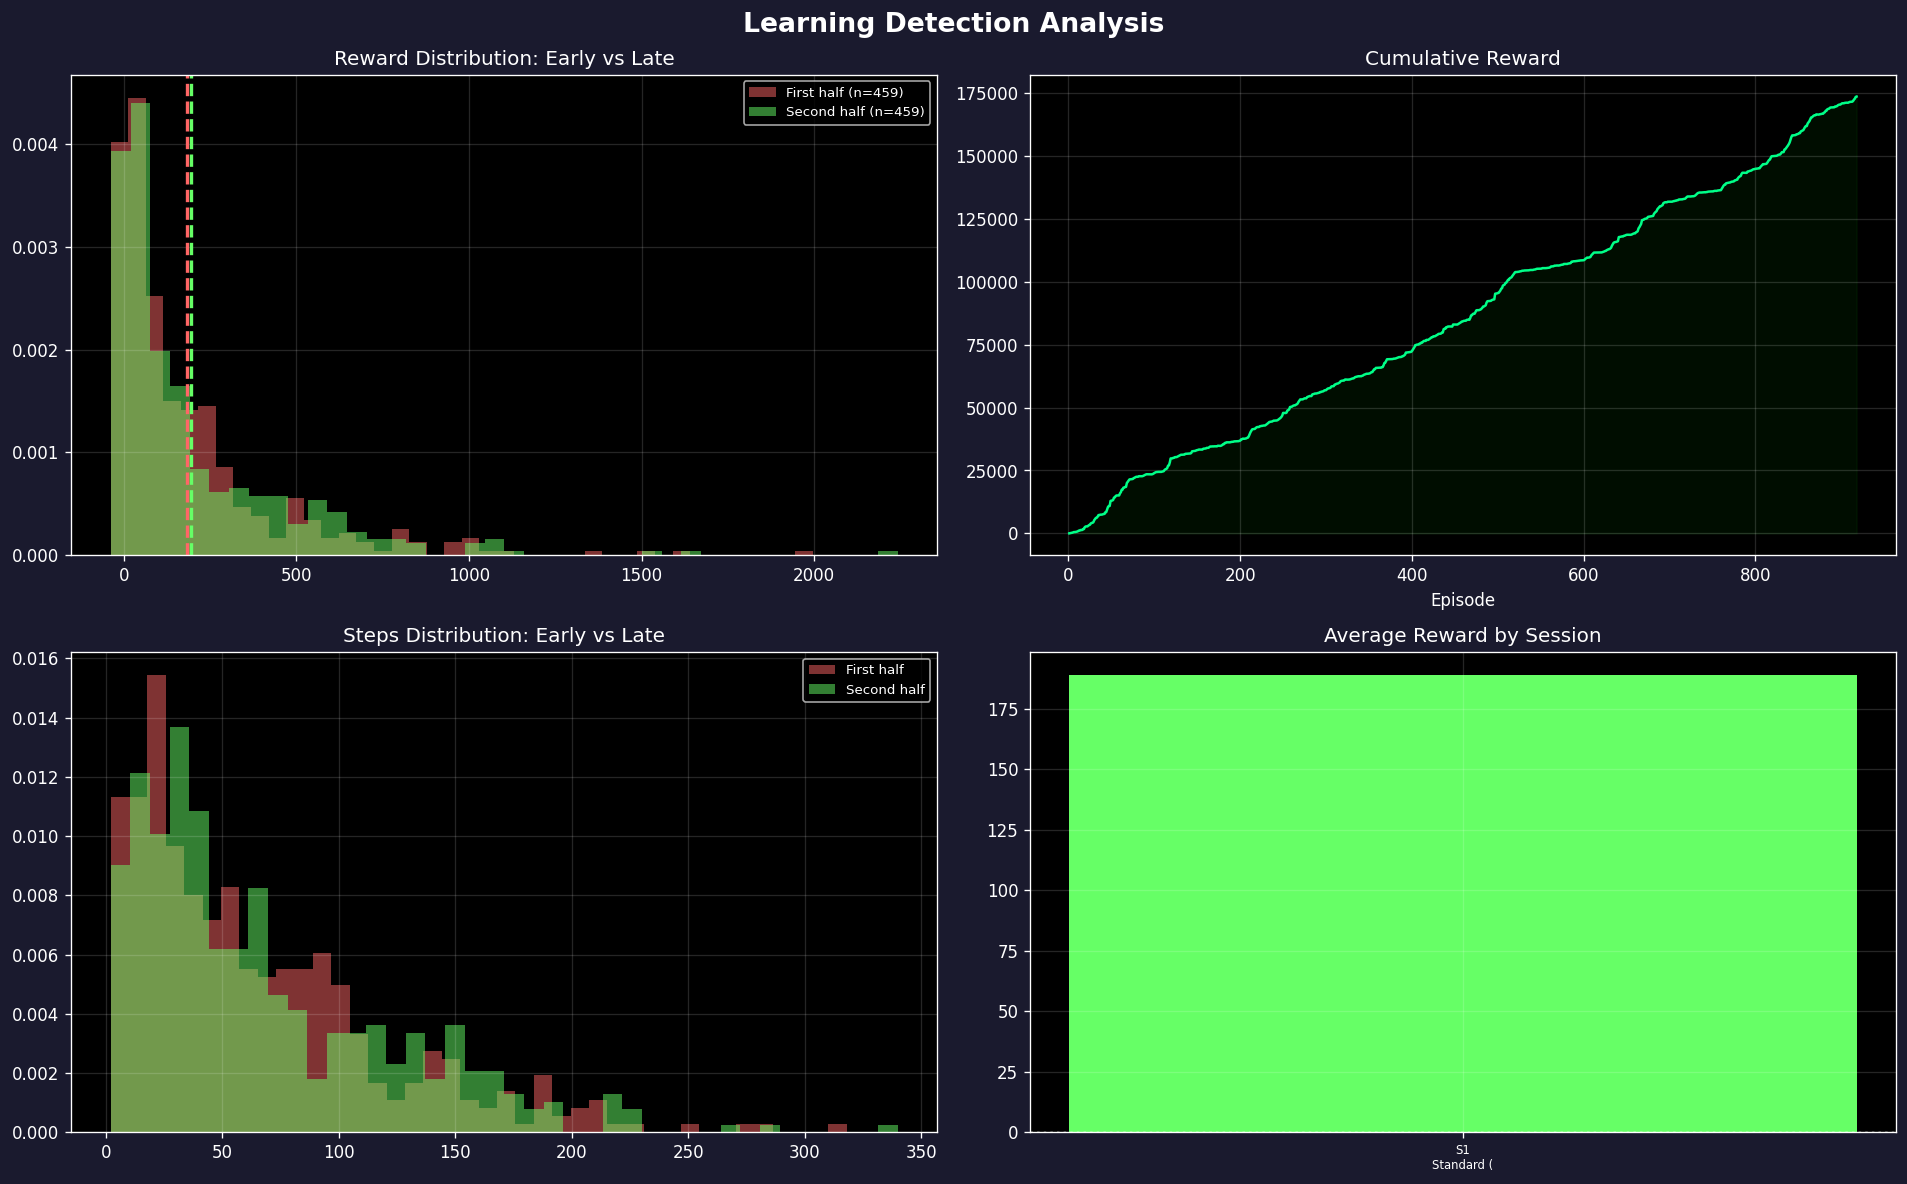
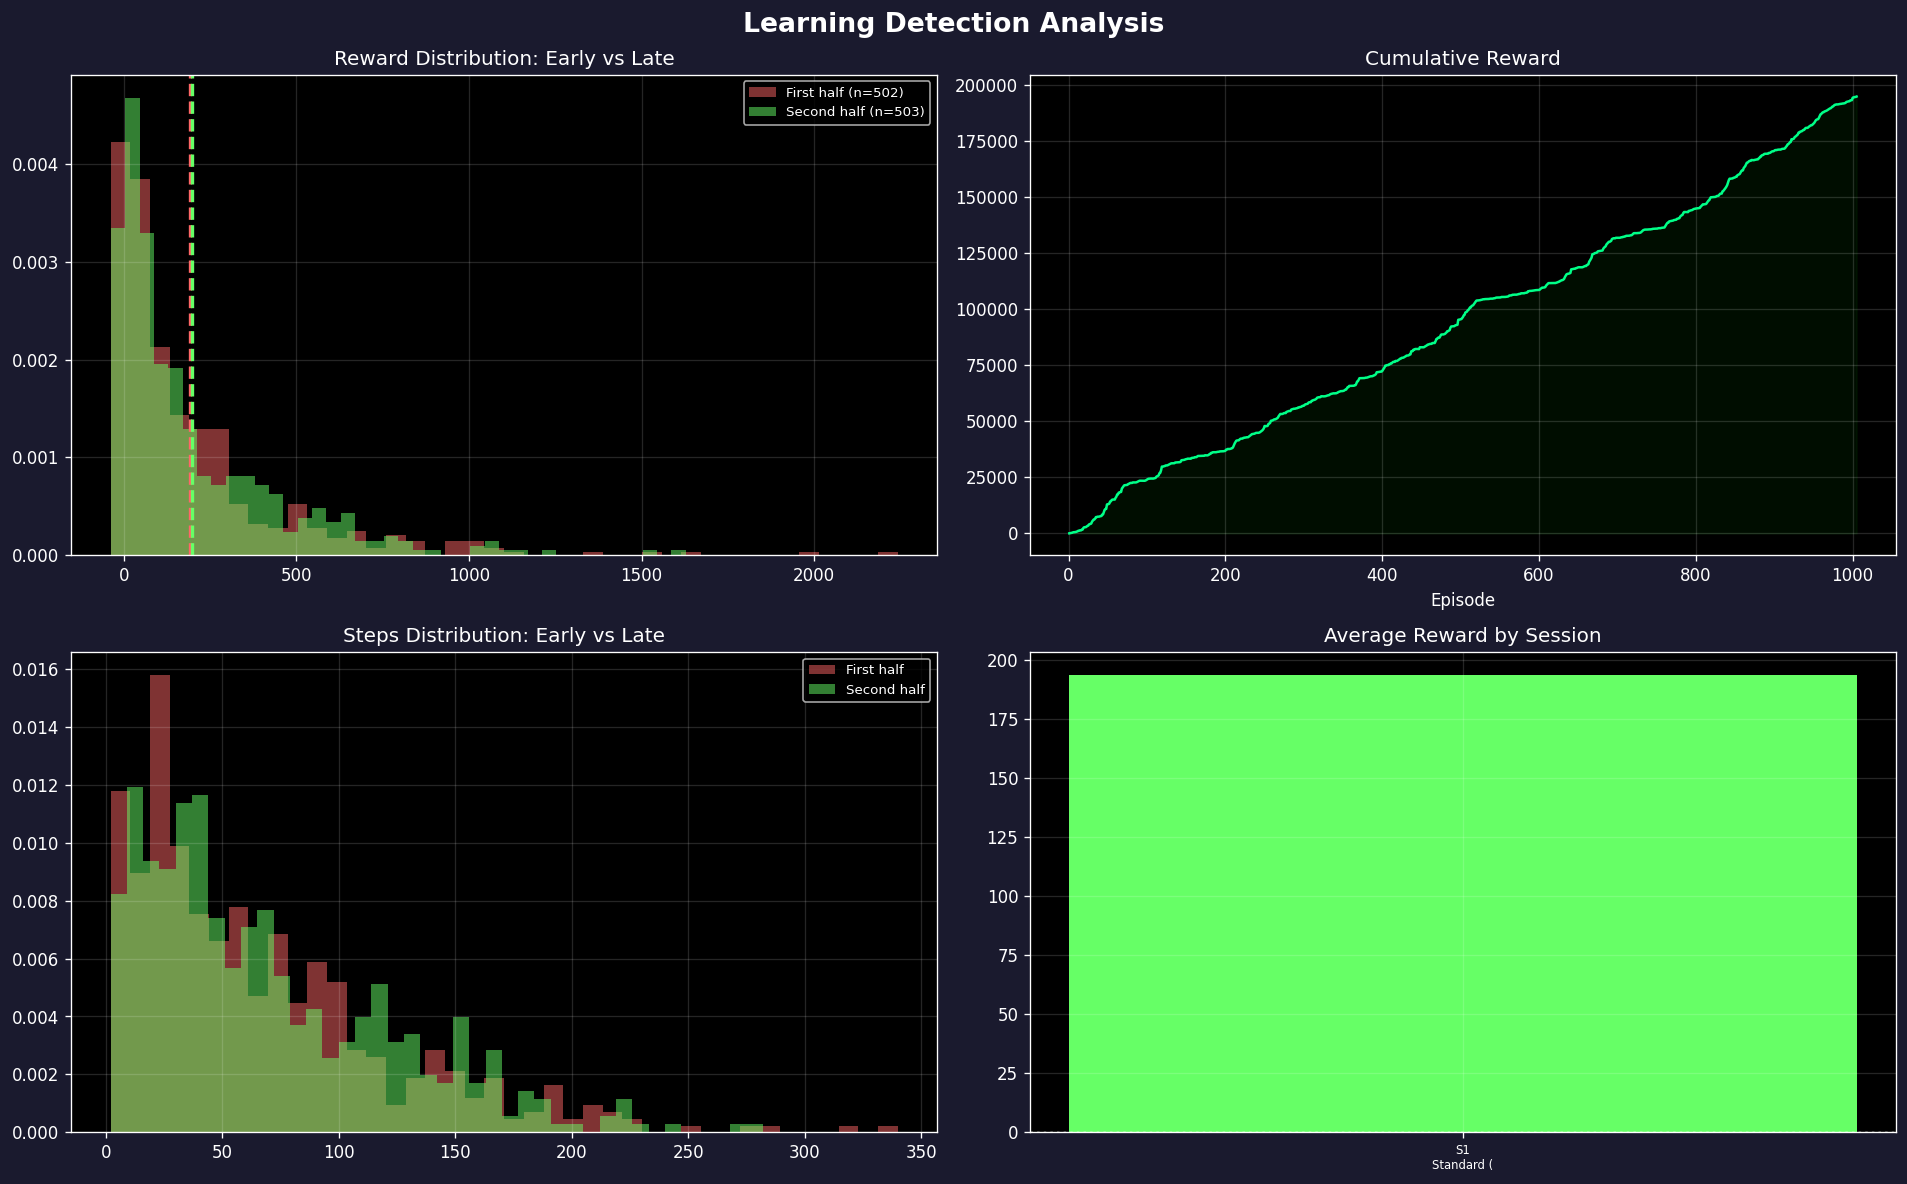
stats

diff --git a/gen2/progress_report.md b/gen2/progress_report.md
@@ -1,7 +1,7 @@
 # Slither.io Bot - Training Progress Report
 
-**Generated:** 2026-02-12 23:25:30  
-**Total Episodes:** 918  
+**Generated:** 2026-02-12 23:35:34  
+**Total Episodes:** 1005  
 **Training Sessions:** 1
 
 ## Verdict: NOT LEARNING (Confidence: 50%)
@@ -9,7 +9,7 @@
 **Goal Feasibility:** UNLIKELY (5-25% chance) without tuning
 
 ### Warnings
-- Rewards flat: change = 11.4 between halves
+- Rewards flat: change = 5.1 between halves
 
 ### Positive Signals
 - Loss decreasing (model converging)
@@ -18,10 +18,10 @@
 
 | Metric | Mean | Std | Min | Max | P50 | P95 |
 |--------|------|-----|-----|-----|-----|-----|
-| Reward | 189.10 | 264.02 | -38.58 | 2242.28 | 88.65 | 684.89 |
-| Steps | 65.61 | 54.82 | 2.00 | 340.00 | 49.00 | 170.15 |
-| Food | 28.10 | 10.93 | 0.00 | 77.00 | 25.00 | 49.00 |
-| Loss | 13.43 | 38.95 | 0.53 | 392.24 | 6.36 | 22.16 |
+| Reward | 193.83 | 262.43 | -38.58 | 2242.28 | 94.47 | 686.40 |
+| Steps | 67.01 | 54.63 | 2.00 | 340.00 | 52.00 | 170.80 |
+| Food | 28.36 | 10.86 | 0.00 | 77.00 | 26.00 | 49.00 |
+| Loss | 12.98 | 37.28 | 0.53 | 392.24 | 6.51 | 21.17 |
 
 ## Goal Progress
 
@@ -34,7 +34,7 @@
 
 | # | Style | Episodes | Avg Reward | Avg Steps |
 |---|-------|----------|------------|----------|
-| 1 | Standard (Curriculum) | 1-918 | 189.1 | 66 |
+| 1 | Standard (Curriculum) | 1-1005 | 193.8 | 67 |
 
 ## Recommendations
 
